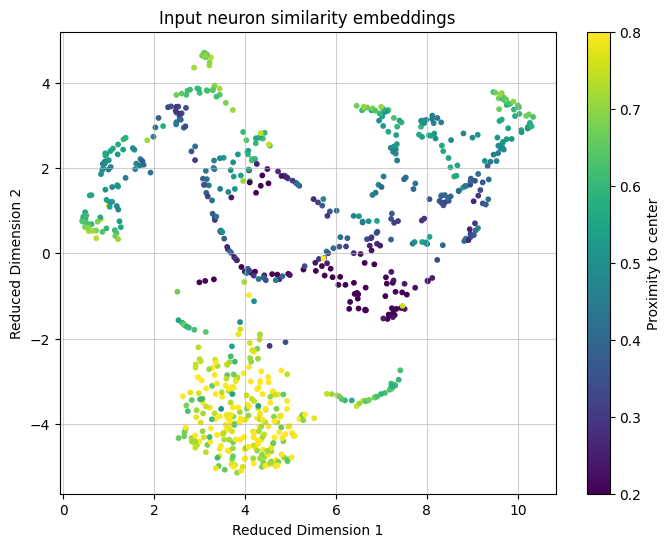
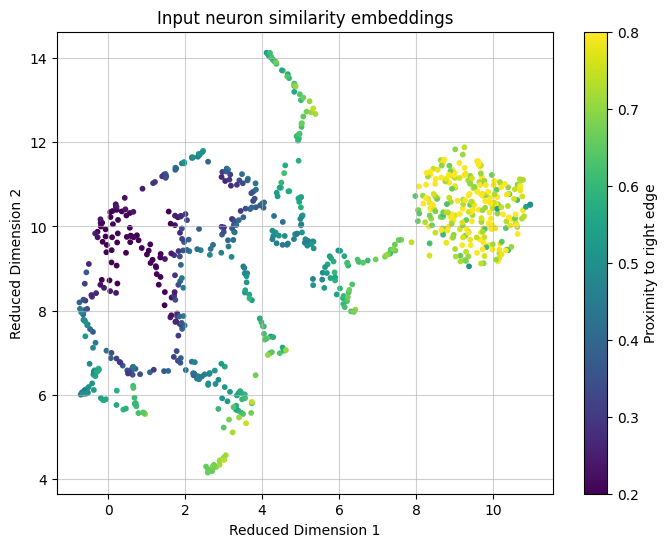
updated input neuron umap plot

diff --git a/_includes/exhibit2.md b/_includes/exhibit2.md
@@ -13,7 +13,7 @@ Please note that only considering one layer for this decoding task serves severa
 
 Moreover, since we will apply the same cosine similarity preprocessing step as in the previous experiment, we can also prevent other 'trivial' solution methods such as inferring positional information from the norm of the outgoing weights of an input neuron.
 
-Preliminary visualizations using UMAP on the cosine similarity matrix between input neurons already suggest that some positional information is present and decodable relationally.
+Preliminary visualizations using UMAP on the cosine similarity matrix between input neurons of a trained network (no dropout) already suggest that some positional information is present and decodable relationally.
 
 <p align="center">
   <img src="figures/umap-input-neuron-similarity.png" alt="UMAP input neuron similarity" width="600"/>
